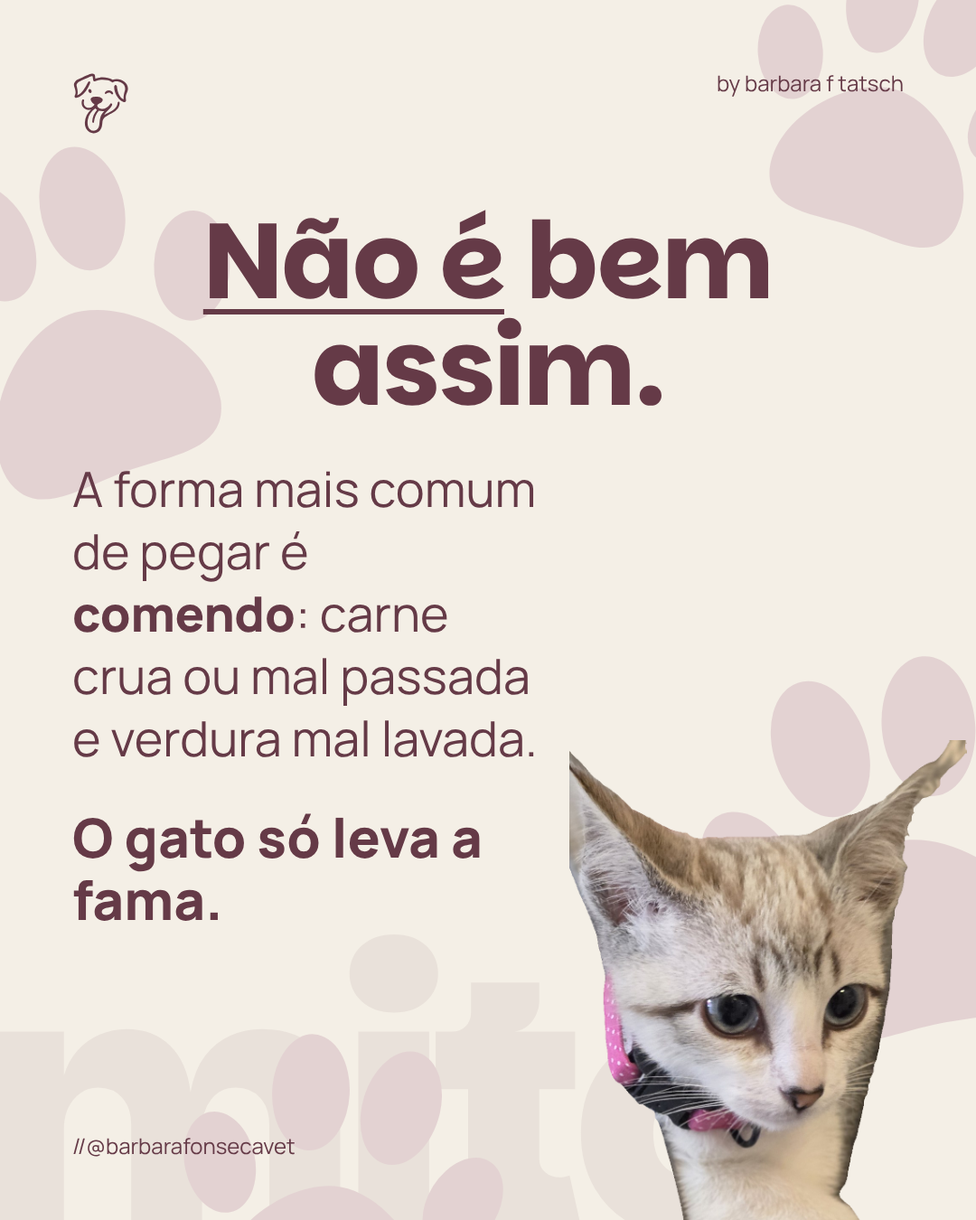
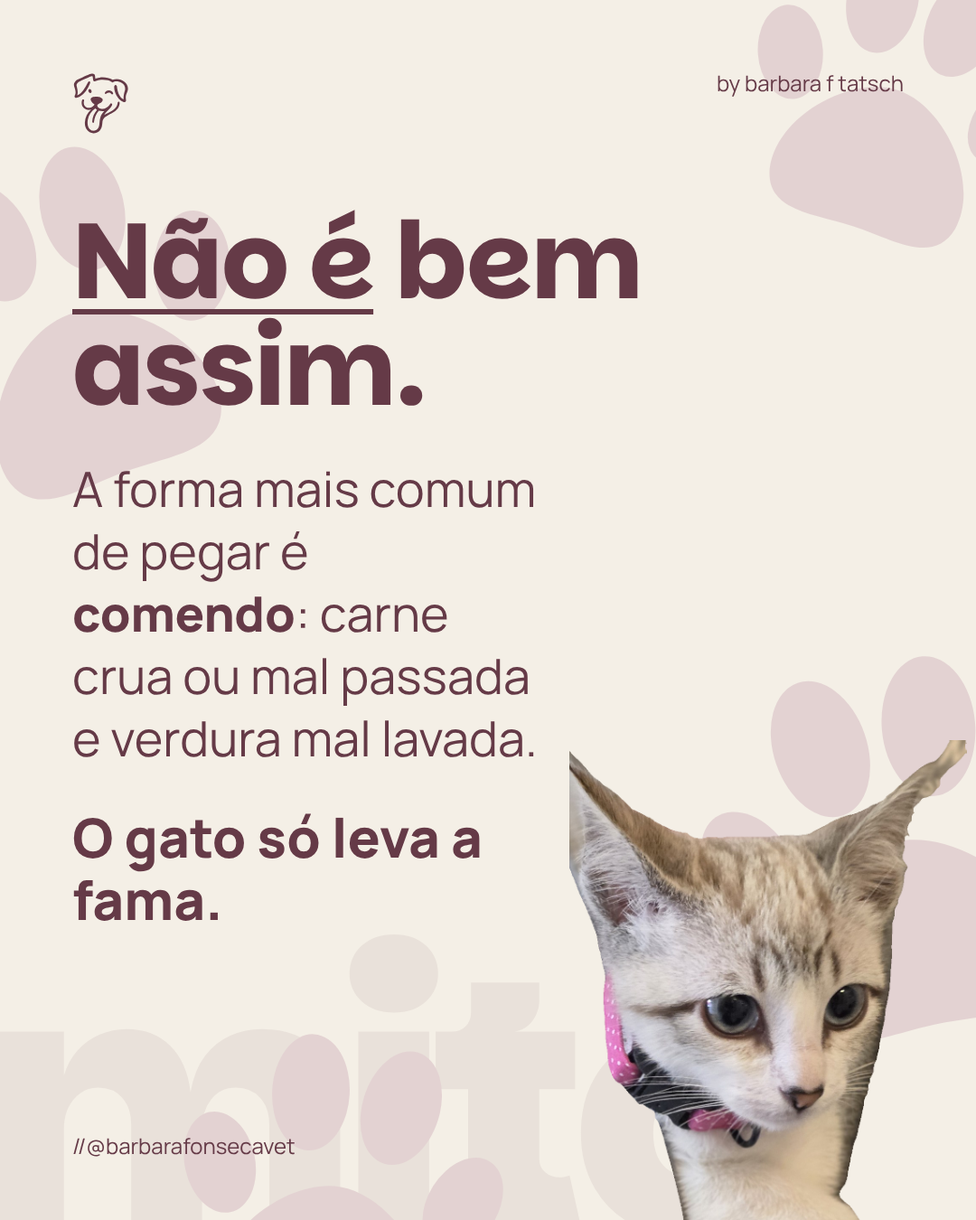
Carrosséis com as fotos do banco novo, capas fortes, quadriculado e azulejo; edições do canvas incorporadas
Claude-Session: https://claude.ai/code/session_012dBNqwcpy8QWcz4DKmFao3

Changed region(s): [[0.0611, 0.1556, 0.7944, 0.3422]]

diff --git a/Barbara/posts/carrosseis-figma/04-prejudiciais.html b/Barbara/posts/carrosseis-figma/04-prejudiciais.html
@@ -1,35 +1,32 @@
 <!doctype html><html lang="pt-BR"><head><meta charset="utf-8"><link rel="stylesheet" href="../../design-system/components/bundle.css"><link rel="stylesheet" href="estilo.css"><title>Esses alimentos podem ser prejudiciais</title></head><body><div class="tira">
 
-<section class="s foto-s"><img class="foto" src="../../design-system/assets/Fotos/tosa-filhote-preto.jpg" alt="Filhote preto comendo de um potinho" style="object-position:50% 40%"><div class="sombra-topo" style="background:linear-gradient(180deg,rgba(40,15,24,.7) 0%,rgba(40,15,24,.35) 40%,rgba(40,15,24,0) 60%)"></div><i class="bf-logo"></i><p class="by">by barbara f tatsch</p><p class="handle">//@barbarafonsecavet</p>
-  <div class="grupo-topo" style="top:250px;align-items:flex-start;text-align:left;left:70px"><span class="etiqueta">[esses alimentos podem ser]</span>
-  <p class="gigante">prejudiciais</p><p class="sub-gigante">para o seu <b>animalzinho</b></p></div></section>
+<section class="s foto-s"><img class="foto" src="../../design-system/assets/Fotos/banco-novo/pug-pirulito-chapeu-meme.webp" alt="Pug de chapéu segurando um pirulito" style="object-position:58% 50%"><div class="sombra-baixo" style="background:linear-gradient(0deg,rgba(40,15,24,.88) 0%,rgba(40,15,24,.55) 38%,rgba(40,15,24,0) 62%)"></div> <i class="bf-logo"></i><p class="by">by barbara f tatsch</p><p class="handle">//@barbarafonsecavet</p>
+  <div class="capa-bloco" style="bottom:130px"><span class="etiqueta">[esses alimentos podem ser]</span><p class="gigante">prejudiciais</p><p class="sub-gigante">para o seu <b>animalzinho</b> 🍭</p></div></section>
 
 <section class="s creme"><i class="pata" style="left:-130px;top:150px;width:420px;height:420px;transform:rotate(-20deg)"></i><i class="pata" style="right:-90px;top:-70px;width:360px;height:360px;transform:rotate(18deg)"></i><i class="pata" style="right:-150px;bottom:170px;width:470px;height:470px;transform:rotate(-12deg)"></i><i class="pata" style="left:180px;bottom:-170px;width:390px;height:390px;transform:rotate(10deg)"></i><p class="fundo-palavra" aria-hidden="true" style="left:-40px;bottom:-40px">cacau</p><i class="bf-logo"></i><p class="by">by barbara f tatsch</p><p class="handle">//@barbarafonsecavet</p>
-  <img class="recorte" src="recorte-shih-tzu.png" alt="" style="right:0;bottom:0;width:430px">
-  <div class="miolo" style="justify-content:flex-start;top:230px"><h2 class="titulo"><u>Chocolate</u></h2>
-  <p class="corpo" style="max-width:540px">Quanto <b>mais amargo, pior</b>. O corpo dele não consegue eliminar uma substância do cacau.</p></div></section>
+  <div class="miolo" style="top:220px;justify-content:flex-start"><h2 class="titulo" style="font-size:150px">🍫<br><u>Chocolate</u></h2>
+  <p class="corpo" style="text-align:center">Quanto <b>mais amargo, pior</b>. O corpo dele não consegue eliminar uma substância do cacau.</p></div></section>
 
-<section class="s vinho"><i class="bf-logo"></i><p class="by">by barbara f tatsch</p><p class="handle">//@barbarafonsecavet</p><p class="fundo-palavra" aria-hidden="true" style="left:-40px;top:600px">uva</p>
-  <h2 class="e5-titulo">Uva e uva&#8209;passa</h2>
-  <img class="recorte" src="recorte-pitbull-cinza.png" alt="" style="right:0;bottom:0;width:400px">
-  <p class="e5-texto">Mesmo <b>pouquinho</b> pode afetar os <b>rins</b> de alguns cães.</p></section>
+<section class="s vinho"><i class="bf-logo"></i><p class="by">by barbara f tatsch</p><p class="handle">//@barbarafonsecavet</p><p class="fundo-palavra" aria-hidden="true" style="left:-40px;top:560px">uva</p>
+  <h2 class="e5-titulo" style="width:900px">Uva e uva&#8209;passa 🍇</h2>
+  <p class="e5-texto" style="width:880px;font-size:56px">Mesmo <b>pouquinho</b> pode afetar os <b>rins</b> de alguns cães.</p></section>
 
-<section class="s foto-s"><img class="foto" src="../../design-system/assets/Fotos/pet-golden.webp" alt="Golden sorrindo"><div class="sombra-baixo"></div><i class="bf-logo"></i><p class="by">by barbara f tatsch</p><p class="handle">//@barbarafonsecavet</p>
-  <div class="grupo-topo"><div class="bf-tarja bf-tarja--salvia"><span><b>Cebola e alho</b></span></div></div>
-  <div class="texto-pe"><p class="texto-foto">Crus, cozidos ou em pó. <u>Inclusive no tempero da comida que sobra.</u></p></div></section>
+<section class="s foto-s"><img class="foto" src="../../design-system/assets/Fotos/banco-novo/salsicha-cozinheiro-meme.webp" alt="Salsicha de avental e touca cozinhando com tomate e cebola" style="object-position:40% 50%"><div class="sombra-topo" style="background:linear-gradient(180deg,rgba(40,15,24,.8) 0%,rgba(40,15,24,.45) 34%,rgba(40,15,24,0) 55%)"></div> <i class="bf-logo"></i><p class="by">by barbara f tatsch</p><p class="handle">//@barbarafonsecavet</p>
+  <div class="grupo-topo"><div class="bf-tarja bf-tarja--salvia"><span><b>Cebola e alho</b> 🧅</span></div>
+  <p class="texto-mini" style="font-size:48px">Crus, cozidos ou em pó. <b>Inclusive no tempero da comida que sobra.</b></p></div></section>
 
-<section class="s foto-s"><img class="foto" src="../../design-system/assets/Fotos/shih-tzu-tapete.jpg" alt="Shih-tzu no tapete olhando pra cima"><div class="sombra-topo" style="background:linear-gradient(180deg,rgba(40,15,24,.7) 0%,rgba(40,15,24,.3) 34%,rgba(40,15,24,0) 50%)"></div><i class="bf-logo"></i><p class="by">by barbara f tatsch</p><p class="handle">//@barbarafonsecavet</p>
-  <div class="grupo-topo"><div class="bf-tarja"><span><b>Xilitol</b></span></div>
-  <p class="texto-mini">O adoçante de chiclete, bala, alguns pães e pasta de amendoim. <b>Lê o rótulo.</b></p></div></section>
+<section class="s xadrez"><i class="bf-logo"></i><p class="by">by barbara f tatsch</p><p class="handle">//@barbarafonsecavet</p>
+  <div class="miolo"><div class="cartaz"><h2 class="titulo">Xilitol</h2>
+  <p class="corpo" style="text-align:center">O adoçante de <b>chiclete, bala</b>, alguns pães e pasta de amendoim.</p></div>
+  <p class="fecho" style="text-align:center;color:#F7F0E4">Lê o rótulo antes de dividir 👀</p></div></section>
 
-<section class="s foto-s"><img class="foto" src="../../design-system/assets/Fotos/gato-frajola-jardim.jpg" alt="Gato frajola no jardim"><div class="sombra-baixo"></div><i class="bf-logo"></i><p class="by">by barbara f tatsch</p><p class="handle">//@barbarafonsecavet</p>
-  <div class="grupo-baixo"><div class="bf-tarja bf-tarja--salvia"><span>Leite pro <b>gato adulto</b></span></div>
-  <p class="texto-mini">Muitos não digerem bem a lactose. O pires de leite é <b>coisa de desenho</b>.</p></div></section>
+<section class="s azulejo"><i class="bf-logo"></i><p class="by">by barbara f tatsch</p><p class="handle">//@barbarafonsecavet</p>
+  <div class="card-foto" style="background-image:url(../../design-system/assets/Fotos/banco-novo/gato-laranja-olhando-pra-cima.png);background-position:50% 30%"><div class="tarja-card"><div class="bf-tarja"><span>Leite pro <b>gato adulto</b> 🥛</span></div></div></div>
+  <div class="bilhete">Muitos não digerem bem a lactose. O pires de leite é <b>coisa de desenho</b>.</div></section>
 
-<section class="s"><img class="fundo-escuro" src="../../design-system/assets/Fotos/dois-gatos.jpg" alt=""><i class="bf-logo"></i><p class="by">by barbara f tatsch</p><p class="handle">//@barbarafonsecavet</p>
-  <h2 class="e7-titulo">Café e álcool</h2>
-  <div class="e7-quadro" role="img" aria-label="Dois gatos" style="background:url(../../design-system/assets/Fotos/dois-gatos.jpg) 50% 30%/150% auto no-repeat"></div>
-  <p class="e7-texto">Nem um golinho. O corpo dele reage <b>bem diferente</b> do nosso.</p></section>
+<section class="s foto-s"><img class="foto" src="../../design-system/assets/Fotos/banco-novo/salsicha-pijama-notebook-meme.webp" alt="Salsicha de pijama na cama com notebook e café" style="object-position:60% 40%"><div class="sombra-baixo" style="background:linear-gradient(0deg,rgba(40,15,24,.88) 0%,rgba(40,15,24,.55) 38%,rgba(40,15,24,0) 62%)"></div> <i class="bf-logo"></i><p class="by">by barbara f tatsch</p><p class="handle">//@barbarafonsecavet</p>
+  <div class="grupo-baixo"><div class="bf-tarja"><span><b>Café e álcool</b> ☕</span></div>
+  <p class="texto-mini" style="font-size:48px">Nem um golinho. O corpo dele reage <b>bem diferente</b> do nosso.</p></div></section>
 
 <section class="s creme"><p class="fundo-palavra" aria-hidden="true" style="left:-60px;bottom:-30px">atenção</p><i class="bf-logo"></i><p class="by">by barbara f tatsch</p><p class="handle">//@barbarafonsecavet</p>
   <p class="e8-texto">Ele comeu algum desses? <b>Não espera passar mal:</b> procura atendimento na hora. Salva esse post 🫶</p></section>

diff --git a/Barbara/posts/carrosseis-figma/05-o-que-seu-pet-diz.html b/Barbara/posts/carrosseis-figma/05-o-que-seu-pet-diz.html
@@ -1,9 +1,8 @@
 <!doctype html><html lang="pt-BR"><head><meta charset="utf-8"><link rel="stylesheet" href="../../design-system/components/bundle.css"><link rel="stylesheet" href="estilo.css"><title>O que seu pet tenta te dizer todos os dias</title></head><body><div class="tira">
 
-<section class="s foto-s"><img class="foto" src="../../design-system/assets/Fotos/filhote-gato-no-casaco.jpg" alt="Gatinho no colo, dentro do casaco" style="object-position:50% 30%"><div class="sombra-baixo" style="background:linear-gradient(0deg,rgba(40,15,24,.85) 0%,rgba(40,15,24,.5) 40%,rgba(40,15,24,0) 62%)"></div><i class="bf-logo"></i><p class="by">by barbara f tatsch</p><p class="handle">//@barbarafonsecavet</p>
-  <div class="grupo-baixo" style="align-items:flex-start;text-align:left;left:70px;bottom:130px">
-  <p class="gigante" style="font-size:118px;line-height:.95">O que seu pet tenta te dizer</p><span class="etiqueta">[todos os dias?]</span>
-  <p class="texto-mini" style="max-width:820px">O jeito que abana o rabo, as orelhas, o olhar, a postura e até o silêncio dizem <b>muito sobre como ele está se sentindo.</b></p></div></section>
+<section class="s foto-s"><img class="foto" src="../../design-system/assets/Fotos/banco-novo/salsicha-fantasia-flor.webp" alt="Salsicha fantasiado de flor laranja olhando pra cima"><div class="sombra-baixo" style="background:linear-gradient(0deg,rgba(40,15,24,.88) 0%,rgba(40,15,24,.55) 38%,rgba(40,15,24,0) 62%)"></div><div class="sombra-topo" style="background:linear-gradient(180deg,rgba(40,15,24,.8) 0%,rgba(40,15,24,.45) 34%,rgba(40,15,24,0) 55%)"></div> <i class="bf-logo"></i><p class="by">by barbara f tatsch</p><p class="handle">//@barbarafonsecavet</p>
+  <div class="capa-bloco" style="top:170px"><p class="gigante" style="font-size:126px;line-height:.92">O que seu pet tenta te dizer</p><span class="etiqueta">[todos os dias?]</span></div>
+  <div class="texto-pe" style="bottom:120px"><p class="texto-mini" style="font-size:40px">O rabo, as orelhas, o olhar, a postura e até o silêncio dizem <b>muito sobre como ele está se sentindo.</b></p></div></section>
 
 <section class="s creme"><i class="pata" style="left:-130px;top:150px;width:420px;height:420px;transform:rotate(-20deg)"></i><i class="pata" style="right:-90px;top:-70px;width:360px;height:360px;transform:rotate(18deg)"></i><i class="pata" style="right:-150px;bottom:170px;width:470px;height:470px;transform:rotate(-12deg)"></i><i class="pata" style="left:180px;bottom:-170px;width:390px;height:390px;transform:rotate(10deg)"></i><p class="fundo-palavra" aria-hidden="true" style="left:-40px;bottom:-40px">confio</p><i class="bf-logo"></i><p class="by">by barbara f tatsch</p><p class="handle">//@barbarafonsecavet</p>
   <img class="recorte" src="recorte-gata-escaminha.png" alt="" style="right:40px;bottom:0;width:360px">
@@ -11,25 +10,24 @@
   <p class="corpo" style="max-width:560px">Gato que te olha e pisca devagar tá dizendo que <b>confia em você</b>. Pisca de volta 🥰</p></div></section>
 
 <section class="s vinho"><i class="bf-logo"></i><p class="by">by barbara f tatsch</p><p class="handle">//@barbarafonsecavet</p><p class="fundo-palavra" aria-hidden="true" style="left:-40px;top:620px">rabo</p>
-  <h2 class="e5-titulo">Rabo abanando nem sempre é festa</h2>
-  <img class="recorte" src="recorte-dalmata.png" alt="" style="right:30px;bottom:0;width:300px">
-  <p class="e5-texto">Duro, curtinho e com o corpo tenso pode ser <b>alerta</b>. Olha o corpo todo.</p></section>
+  <h2 class="e5-titulo" style="width:900px">Rabo abanando nem sempre é festa</h2>
+  <p class="e5-texto" style="width:880px;font-size:54px">Duro, curtinho e com o corpo tenso pode ser <b>alerta</b>. Olha o corpo todo.</p></section>
 
-<section class="s foto-s"><img class="foto" src="../../design-system/assets/Fotos/pet-caminhando.webp" alt="Gato frajola"><div class="sombra-baixo"></div><i class="bf-logo"></i><p class="by">by barbara f tatsch</p><p class="handle">//@barbarafonsecavet</p>
-  <div class="grupo-topo"><div class="bf-tarja bf-tarja--salvia"><span><b>Barriga pra cima</b></span></div></div>
-  <div class="texto-pe"><p class="texto-foto">No gato, nem sempre é convite pra carinho. <u>Às vezes é só confiança.</u></p></div></section>
+<section class="s azulejo azulejo--salvia"><i class="bf-logo"></i><p class="by">by barbara f tatsch</p><p class="handle">//@barbarafonsecavet</p>
+  <div class="card-foto" style="background-image:url(../../design-system/assets/Fotos/banco-novo/dois-goldens-deitados.png);background-position:50% 55%"><div class="tarja-card"><div class="bf-tarja"><span><b>Barriga pra cima</b>,</span></div></div></div>
+  <div class="bilhete">ou esparramado assim: nem sempre é convite pra carinho. <b>Às vezes é só confiança.</b></div></section>
 
-<section class="s foto-s"><img class="foto" src="../../design-system/assets/Fotos/dalmata-mesa.jpg" alt="Dálmata na mesa"><div class="sombra-baixo"></div><i class="bf-logo"></i><p class="by">by barbara f tatsch</p><p class="handle">//@barbarafonsecavet</p>
-  <div class="grupo-baixo"><div class="bf-tarja"><span>Bocejo e</span><span><b>lambida no focinho</b></span></div>
-  <p class="texto-mini">Fora de hora, podem ser sinal de que ele tá <b>desconfortável</b>.</p></div></section>
+<section class="s foto-s"><img class="foto" src="../../design-system/assets/Fotos/banco-novo/corgi-dirigindo-meme.webp" alt="Corgi no volante de boca aberta" style="object-position:35% 50%"><div class="sombra-topo" style="background:linear-gradient(180deg,rgba(40,15,24,.8) 0%,rgba(40,15,24,.45) 34%,rgba(40,15,24,0) 55%)"></div> <i class="bf-logo"></i><p class="by">by barbara f tatsch</p><p class="handle">//@barbarafonsecavet</p>
+  <div class="grupo-topo"><div class="bf-tarja"><span>Bocejo e</span><span><b>lambida no focinho</b></span></div>
+  <p class="texto-mini" style="font-size:46px">Fora de hora, podem ser sinal de que ele tá <b>desconfortável</b>.</p></div></section>
 
-<section class="s foto-s"><img class="foto" src="../../design-system/assets/Fotos/buldogue-e-pequines.jpg" alt="Buldogue e pequinês deitados"><div class="sombra-topo" style="background:linear-gradient(180deg,rgba(40,15,24,.7) 0%,rgba(40,15,24,.3) 34%,rgba(40,15,24,0) 50%)"></div><i class="bf-logo"></i><p class="by">by barbara f tatsch</p><p class="handle">//@barbarafonsecavet</p>
-  <div class="grupo-topo"><div class="bf-tarja bf-tarja--salvia"><span>O <b>silêncio</b> também fala</span></div>
-  <p class="texto-mini">Bicho que se esconde, fica quieto ou para de comer <b>pode estar com dor</b>.</p></div></section>
+<section class="s xadrez--salvia"><i class="bf-logo"></i><p class="by">by barbara f tatsch</p><p class="handle">//@barbarafonsecavet</p>
+  <div class="miolo"><div class="cartaz"><h2 class="titulo">O silêncio também fala</h2>
+  <p class="corpo" style="text-align:center">Bicho que se esconde, fica quieto ou para de comer <b>pode estar com dor</b>.</p></div></div></section>
 
-<section class="s"><img class="fundo-escuro" src="../../design-system/assets/Fotos/barbara-consultorio.jpg" alt=""><i class="bf-logo"></i><p class="by">by barbara f tatsch</p><p class="handle">//@barbarafonsecavet</p>
+<section class="s"><img class="fundo-escuro" src="../../design-system/assets/Fotos/barbara-jaleco-preto.jpg" alt=""><i class="bf-logo"></i><p class="by">by barbara f tatsch</p><p class="handle">//@barbarafonsecavet</p>
   <h2 class="e7-titulo">Na dúvida,</h2>
-  <div class="e7-quadro" role="img" aria-label="Barbara no consultório" style="background:url(../../design-system/assets/Fotos/barbara-consultorio.jpg) 50% 50%/135% auto no-repeat"></div>
+  <div class="e7-quadro" role="img" aria-label="Barbara" style="background:url(../../design-system/assets/Fotos/barbara-jaleco-preto.jpg) 50% 22%/120% auto no-repeat"></div>
   <p class="e7-texto">me chama. Eu te ajudo a <b>entender o que ele tá dizendo</b> 💗</p></section>
 
 <section class="s creme"><p class="fundo-palavra" aria-hidden="true" style="left:-60px;bottom:-30px">me conta</p><i class="bf-logo"></i><p class="by">by barbara f tatsch</p><p class="handle">//@barbarafonsecavet</p>

diff --git a/Barbara/posts/carrosseis-figma/02-um-conselho.html b/Barbara/posts/carrosseis-figma/02-um-conselho.html
@@ -1,29 +1,28 @@
 <!doctype html><html lang="pt-BR"><head><meta charset="utf-8"><link rel="stylesheet" href="../../design-system/components/bundle.css"><link rel="stylesheet" href="estilo.css"><title>Se eu pudesse dar só um conselho</title></head><body><div class="tira">
 
-<section class="s foto-s"><img class="foto" src="../../design-system/assets/Fotos/barbara-retrato.jpg" alt="Barbara" style="object-position:50% 30%"><div class="sombra-topo"></div><i class="bf-logo"></i><p class="by">by barbara f tatsch</p><p class="handle">//@barbarafonsecavet</p>
-  <div class="grupo-baixo"><div class="bf-tarja"><span>Se eu pudesse dar</span><span><b>só um conselho</b></span></div><span class="etiqueta">[pra todo tutor...]</span></div></section>
+<section class="s foto-s"><img class="foto" src="../../design-system/assets/Fotos/banco-novo/golden-girassois.webp" alt="Golden segurando girassóis na boca" style="object-position:50% 40%"><div class="sombra-baixo" style="background:linear-gradient(0deg,rgba(40,15,24,.88) 0%,rgba(40,15,24,.55) 38%,rgba(40,15,24,0) 62%)"></div> <i class="bf-logo"></i><p class="by">by barbara f tatsch</p><p class="handle">//@barbarafonsecavet</p>
+  <div class="capa-bloco" style="bottom:130px"><p class="sub-gigante" style="font-size:64px">Se eu pudesse dar</p><p class="gigante" style="font-size:150px">só um conselho</p><span class="etiqueta">[pra todo tutor...]</span></div></section>
 
-<section class="s creme"><p class="fundo-palavra" aria-hidden="true" style="left:-30px;bottom:-40px">ótimo</p><i class="pata" style="left:-130px;top:150px;width:420px;height:420px;transform:rotate(-20deg)"></i><i class="pata" style="right:-90px;top:-70px;width:360px;height:360px;transform:rotate(18deg)"></i><i class="pata" style="right:-150px;bottom:170px;width:470px;height:470px;transform:rotate(-12deg)"></i><i class="pata" style="left:180px;bottom:-170px;width:390px;height:390px;transform:rotate(10deg)"></i> <i class="bf-logo"></i><p class="by">by barbara f tatsch</p><p class="handle">//@barbarafonsecavet</p>
-  <img class="recorte" src="recorte-pitbull-cinza.png" alt="" style="right:0;bottom:0;width:430px">
+<section class="s creme"><i class="pata" style="left:-130px;top:150px;width:420px;height:420px;transform:rotate(-20deg)"></i><i class="pata" style="right:-90px;top:-70px;width:360px;height:360px;transform:rotate(18deg)"></i><i class="pata" style="right:-150px;bottom:170px;width:470px;height:470px;transform:rotate(-12deg)"></i><i class="pata" style="left:180px;bottom:-170px;width:390px;height:390px;transform:rotate(10deg)"></i><p class="fundo-palavra" aria-hidden="true" style="left:-30px;bottom:-40px">ótimo</p><i class="bf-logo"></i><p class="by">by barbara f tatsch</p><p class="handle">//@barbarafonsecavet</p>
+  <div class="polaroid" style="right:60px;bottom:170px;width:400px;height:440px;transform:rotate(5deg)"><div style="background-image:url(../../design-system/assets/Fotos/banco-novo/cachorro-flor-arco-iris.webp);background-position:50% 35%;height:390px"></div><span>parece ótimo, né?</span></div>
   <div class="miolo" style="justify-content:flex-start;top:230px"><h2 class="titulo">Leva ele no <u>check&#8209;up</u></h2>
   <p class="corpo" style="max-width:520px"><b>mesmo com ele ótimo.</b> Uma vez por ano, pelo menos.</p></div></section>
 
-<section class="s foto-s"><img class="foto" src="../../design-system/assets/Fotos/pet-golden.webp" alt="Golden sorrindo"><div class="sombra-baixo"></div><i class="bf-logo"></i><p class="by">by barbara f tatsch</p><p class="handle">//@barbarafonsecavet</p>
-  <div class="grupo-topo"><div class="bf-tarja bf-tarja--salvia"><span>Bicho <b>esconde dor</b></span><span><b>muito bem</b></span></div></div>
-  <div class="texto-pe"><p class="texto-foto">Gato, então, é campeão nisso. <u>Por fora, ele parece ótimo.</u></p></div></section>
+<section class="s foto-s"><img class="foto" src="../../design-system/assets/Fotos/banco-novo/filhote-terno-joinha-meme.png" alt="Filhote de terno fazendo joinha" style="object-position:50% 40%"><div class="sombra-baixo" style="background:linear-gradient(0deg,rgba(40,15,24,.88) 0%,rgba(40,15,24,.55) 38%,rgba(40,15,24,0) 62%)"></div> <i class="bf-logo"></i><p class="by">by barbara f tatsch</p><p class="handle">//@barbarafonsecavet</p>
+  <div class="grupo-topo"><div class="bf-tarja bf-tarja--salvia"><span>"Tô ótimo" 👍</span></div></div>
+  <div class="texto-pe"><p class="texto-foto">Animalzinho <b>esconde dor muito bem</b>. Gato, então, é campeão nisso. <u>Por fora, parece tudo certo.</u></p></div></section>
 
-<section class="s vinho"><p class="fundo-palavra" aria-hidden="true" style="left:-30px;top:560px">rim</p><i class="bf-logo"></i><p class="by">by barbara f tatsch</p><p class="handle">//@barbarafonsecavet</p>
-  <h2 class="e5-titulo">O exame enxerga antes.</h2>
-  <img class="recorte" src="recorte-dalmata.png" alt="" style="right:40px;bottom:0;width:330px">
-  <p class="e5-texto">O exame de sangue mostra o <b>rim mudando antes de qualquer sinal</b>.</p></section>
+<section class="s vinho"><i class="bf-logo"></i><p class="by">by barbara f tatsch</p><p class="handle">//@barbarafonsecavet</p><p class="fundo-palavra" aria-hidden="true" style="left:-30px;top:560px">rim</p>
+  <h2 class="e5-titulo" style="width:900px">O exame enxerga antes.</h2>
+  <p class="e5-texto" style="width:880px;font-size:56px">O exame de sangue mostra o <b>rim mudando antes de qualquer sinal</b>.</p></section>
 
-<section class="s foto-s"><img class="foto" src="../../design-system/assets/Fotos/buldogue-e-pequines.jpg" alt="Buldogue e pequinês deitados"><div class="sombra-baixo"></div><i class="bf-logo"></i><p class="by">by barbara f tatsch</p><p class="handle">//@barbarafonsecavet</p>
+<section class="s foto-s"><img class="foto" src="../../design-system/assets/Fotos/banco-novo/salsicha-smoking-rosa-meme.webp" alt="Salsicha de focinho grisalho de smoking segurando uma rosa" style="object-position:40% 30%"><div class="sombra-baixo" style="background:linear-gradient(0deg,rgba(40,15,24,.88) 0%,rgba(40,15,24,.55) 38%,rgba(40,15,24,0) 62%)"></div> <i class="bf-logo"></i><p class="by">by barbara f tatsch</p><p class="handle">//@barbarafonsecavet</p>
   <div class="grupo-baixo"><div class="bf-tarja bf-tarja--salvia"><span>Idoso vai <b>mais vezes</b></span></div>
-  <p class="texto-mini">Quanto mais velhinho, <b>mais perto</b> a gente acompanha.</p></div></section>
+  <p class="texto-mini" style="font-size:48px">Quanto mais velhinho, <b>mais perto</b> a gente acompanha. Ele merece 🌹</p></div></section>
 
-<section class="s"><img class="fundo-escuro" src="../../design-system/assets/Fotos/barbara-consultorio.jpg" alt=""><i class="bf-logo"></i><p class="by">by barbara f tatsch</p><p class="handle">//@barbarafonsecavet</p>
-  <h2 class="e7-titulo">Meu objetivo</h2>
-  <img class="e7-quadro" src="../../design-system/assets/Fotos/barbara-consultorio.jpg" alt="Barbara no consultório" style="object-position:50% 52%">
+<section class="s"><img class="fundo-escuro" src="../../design-system/assets/Fotos/barbara-retrato.jpg" alt=""><i class="bf-logo"></i><p class="by">by barbara f tatsch</p><p class="handle">//@barbarafonsecavet</p>
+  <h2 class="e7-titulo" style="top:245px">Meu objetivo</h2>
+  <div class="e7-quadro" role="img" aria-label="Barbara" style="background:url(../../design-system/assets/Fotos/barbara-retrato.jpg) 50% 25%/120% auto no-repeat"></div>
   <p class="e7-texto">é que você <b>não precise de mim</b>. E isso começa com ele bem 💗</p></section>
 
 <section class="s creme"><p class="fundo-palavra" aria-hidden="true" style="left:-60px;bottom:-30px">check-up</p><i class="bf-logo"></i><p class="by">by barbara f tatsch</p><p class="handle">//@barbarafonsecavet</p>

diff --git a/Barbara/posts/carrosseis-figma/03-na-hora-da-vacina.html b/Barbara/posts/carrosseis-figma/03-na-hora-da-vacina.html
@@ -1,27 +1,27 @@
 <!doctype html><html lang="pt-BR"><head><meta charset="utf-8"><link rel="stylesheet" href="../../design-system/components/bundle.css"><link rel="stylesheet" href="estilo.css"><title>O que ele tenta te dizer na hora da vacina</title></head><body><div class="tira">
 
-<section class="s foto-s"><img class="foto" src="../../design-system/assets/Fotos/pitbull-cinza-mesa.jpg" alt="Filhote cinza na mesa do consultório" style="object-position:50% 30%"><div class="sombra-topo"></div><i class="bf-logo"></i><p class="by">by barbara f tatsch</p><p class="handle">//@barbarafonsecavet</p>
-  <div class="grupo-baixo"><div class="bf-tarja bf-tarja--salvia"><span>O que <b>ele</b> tenta</span><span><b>te dizer</b></span></div><span class="etiqueta">[na hora da vacina?]</span></div></section>
+<section class="s foto-s" style="background:#fff"><img class="foto" src="../../design-system/assets/Fotos/banco-novo/filhote-cocker-no-colo-jaleco-verde.png" alt="Filhote de cocker no colo, olhando pra câmera" style="object-position:60% 100%"><i class="bf-logo" style="color:#653A47"></i><p class="by" style="color:#653A47;text-shadow:none">by barbara f tatsch</p><p class="handle">//@barbarafonsecavet</p>
+  <div class="capa-bloco" style="top:180px"><p class="gigante gigante--escuro" style="font-size:128px;line-height:.92">O que ele tenta te dizer</p><span class="etiqueta">[na hora da vacina?]</span></div></section>
 
-<section class="s foto-s"><img class="foto" src="../../design-system/assets/Fotos/filhote-gato-no-casaco.jpg" alt="Gatinho de olhos arregalados" style="object-position:50% 20%"><div class="sombra-topo" style="background:linear-gradient(180deg,rgba(40,15,24,.6) 0%,rgba(40,15,24,.25) 30%,rgba(40,15,24,0) 45%)"></div><i class="bf-logo"></i><p class="by">by barbara f tatsch</p><p class="handle">//@barbarafonsecavet</p>
-  <div class="grupo-topo"><div class="bf-tarja"><span>Orelha <b>pra trás</b>,</span></div>
-  <p class="texto-mini">olho arregalado, corpinho encolhido, rabo escondido. <b>Isso é medo.</b></p></div></section>
+<section class="s foto-s"><img class="foto" src="../../design-system/assets/Fotos/banco-novo/gato-branco-sobrancelha-meme.webp" alt="Gato branco de olhos arregalados" style="object-position:50% 40%"><div class="sombra-baixo" style="background:linear-gradient(0deg,rgba(40,15,24,.88) 0%,rgba(40,15,24,.55) 38%,rgba(40,15,24,0) 62%)"></div> <i class="bf-logo"></i><p class="by">by barbara f tatsch</p><p class="handle">//@barbarafonsecavet</p>
+  <div class="grupo-baixo"><div class="bf-tarja"><span>Orelha <b>pra trás</b>,</span><span><b>olho arregalado</b></span></div>
+  <p class="texto-mini" style="font-size:46px">corpinho encolhido, rabo escondido. <b>Isso é medo.</b></p></div></section>
 
-<section class="s creme"><p class="fundo-palavra" aria-hidden="true" style="left:-30px;bottom:-40px">medo</p><i class="pata" style="left:-130px;top:150px;width:420px;height:420px;transform:rotate(-20deg)"></i><i class="pata" style="right:-90px;top:-70px;width:360px;height:360px;transform:rotate(18deg)"></i><i class="pata" style="right:-150px;bottom:170px;width:470px;height:470px;transform:rotate(-12deg)"></i><i class="pata" style="left:180px;bottom:-170px;width:390px;height:390px;transform:rotate(10deg)"></i> <i class="bf-logo"></i><p class="by">by barbara f tatsch</p><p class="handle">//@barbarafonsecavet</p>
+<section class="s creme"><i class="pata" style="left:-130px;top:150px;width:420px;height:420px;transform:rotate(-20deg)"></i><i class="pata" style="right:-90px;top:-70px;width:360px;height:360px;transform:rotate(18deg)"></i><i class="pata" style="right:-150px;bottom:170px;width:470px;height:470px;transform:rotate(-12deg)"></i><i class="pata" style="left:180px;bottom:-170px;width:390px;height:390px;transform:rotate(10deg)"></i><p class="fundo-palavra" aria-hidden="true" style="left:-30px;bottom:-40px">medo</p><i class="bf-logo"></i><p class="by">by barbara f tatsch</p><p class="handle">//@barbarafonsecavet</p>
   <img class="recorte" src="recorte-shih-tzu.png" alt="" style="right:0;bottom:0;width:440px">
   <div class="miolo" style="justify-content:flex-start;top:230px"><h2 class="titulo">Medo <u>não é manha</u>.</h2>
-  <p class="corpo" style="max-width:520px">Ele não tá sendo chato. Ele tá <b>tentando se proteger</b>.</p></div></section>
+  <p class="corpo" style="max-width:520px;text-align:center">Ele não tá sendo chato. Ele tá <b>tentando se proteger</b>.</p></div></section>
 
-<section class="s vinho"><p class="fundo-palavra" aria-hidden="true" style="left:-40px;top:600px">calma</p><i class="bf-logo"></i><p class="by">by barbara f tatsch</p><p class="handle">//@barbarafonsecavet</p>
+<section class="s vinho"><i class="bf-logo"></i><p class="by">by barbara f tatsch</p><p class="handle">//@barbarafonsecavet</p><p class="fundo-palavra" aria-hidden="true" style="left:-40px;top:600px">calma</p>
   <h2 class="e5-titulo">Por isso, na minha consulta:</h2>
   <img class="recorte" src="recorte-pitbull-marrom.png" alt="" style="right:0;bottom:0;width:440px">
   <p class="e5-texto"><b>luz baixa</b>, <b>música</b> e <b>petisco</b> na mão.</p></section>
 
-<section class="s foto-s"><img class="foto" src="../../design-system/assets/Fotos/tosa-filhote-preto.jpg" alt="Filhote preto comendo petisco no potinho"><div class="sombra-baixo"></div><i class="bf-logo"></i><p class="by">by barbara f tatsch</p><p class="handle">//@barbarafonsecavet</p>
-  <div class="grupo-baixo"><div class="bf-tarja bf-tarja--salvia"><span>O <b>petisco</b> é meu <b>aliado</b></span></div>
-  <p class="texto-mini">Enquanto ele come, eu aplico. E a vacina passa <b>bem mais tranquila</b>.</p></div></section>
+<section class="s xadrez"><i class="bf-logo"></i><p class="by">by barbara f tatsch</p><p class="handle">//@barbarafonsecavet</p>
+  <div class="miolo"><div class="cartaz"><h2 class="titulo">O <u>petisco</u> é meu aliado 🦴</h2>
+  <p class="corpo" style="text-align:center">Enquanto ele come, eu aplico. E a vacina passa <b>bem mais tranquila</b>.</p></div></div></section>
 
-<section class="s foto-s"><img class="foto" src="../../design-system/assets/Fotos/dalmata-mesa.jpg" alt="Dálmata posando na mesa"><div class="sombra-baixo"></div><i class="bf-logo"></i><p class="by">by barbara f tatsch</p><p class="handle">//@barbarafonsecavet</p>
+<section class="s foto-s"><img class="foto" src="../../design-system/assets/Fotos/banco-novo/gatinho-cavaleiro-ia.webp" alt="Ilustração de gatinho de armadura segurando uma espada" style="object-position:50% 45%"><div class="sombra-baixo" style="background:linear-gradient(0deg,rgba(40,15,24,.88) 0%,rgba(40,15,24,.55) 38%,rgba(40,15,24,0) 62%)"></div><div class="sombra-topo" style="background:linear-gradient(180deg,rgba(40,15,24,.8) 0%,rgba(40,15,24,.45) 34%,rgba(40,15,24,0) 55%)"></div> <i class="bf-logo"></i><p class="by">by barbara f tatsch</p><p class="handle">//@barbarafonsecavet</p>
   <div class="grupo-topo"><div class="bf-tarja bf-tarja--salvia"><span>E no fim, <b>certificado</b></span><span><b>de coragem</b> 🏅</span></div></div>
   <div class="texto-pe"><p class="texto-foto">Todo paciente meu ganha um. <u>Quem segurou firme na hora também merece.</u></p></div></section>
 

diff --git a/Barbara/posts/carrosseis-figma/estilo.css b/Barbara/posts/carrosseis-figma/estilo.css
@@ -71,3 +71,22 @@ body{margin:0;background:#ccc}
 /* mural de fotos (post de engajamento) */
 .polaroid{position:absolute;z-index:2;background:#F7F0E4;padding:16px 16px 56px;box-shadow:0 18px 40px rgba(30,10,16,.3)}
 .polaroid div{width:100%;height:100%;background-size:cover;background-position:center}
+
+/* ===== Capa forte, quadriculado e card sobre azulejo ===== */
+.gigante--escuro{color:#653A47;text-shadow:none}
+.sub-gigante--escuro{color:#3B1E28;text-shadow:none}
+.capa-bloco{position:absolute;z-index:3;left:70px;right:70px;display:flex;flex-direction:column;align-items:flex-start;gap:14px}
+.xadrez{background-color:#653A47;background-image:conic-gradient(#57303C 25%,transparent 0 50%,#57303C 0 75%,transparent 0);background-size:180px 180px;color:#F7F0E4}
+.xadrez--salvia{background-color:#A0AD90;background-image:conic-gradient(#96A486 25%,transparent 0 50%,#96A486 0 75%,transparent 0);background-size:180px 180px;color:#3B1E28}
+.xadrez .miolo,.xadrez--salvia .miolo{text-align:center;align-items:center}
+.cartaz{background:#F7F0E4;color:#3B1E28;padding:60px 56px;box-shadow:0 18px 40px rgba(30,10,16,.35);transform:rotate(-1.5deg);text-align:center}
+.cartaz .titulo{color:#653A47}
+.azulejo{background-color:#D9C2C6;background-image:linear-gradient(90deg,rgba(247,240,228,.85) 7px,transparent 7px),linear-gradient(0deg,rgba(247,240,228,.85) 7px,transparent 7px);background-size:180px 180px;background-position:-60px -40px}
+.azulejo--salvia{background-color:#A0AD90}
+.card-foto{position:absolute;z-index:2;left:110px;top:150px;width:860px;height:820px;border-radius:44px;overflow:hidden;box-shadow:0 24px 50px rgba(30,10,16,.35);background-size:cover;background-position:center}
+.card-foto .tarja-card{position:absolute;left:0;right:0;bottom:40px;display:flex;justify-content:center}
+.bilhete{position:absolute;z-index:3;left:90px;top:1000px;width:840px;min-height:230px;box-sizing:border-box;padding:46px 60px 40px 90px;background:#F7F0E4;background-image:repeating-linear-gradient(180deg,transparent 0 58px,rgba(59,30,40,.12) 58px 60px);transform:rotate(-1deg);clip-path:polygon(0 0,100% 0,100% 100%,0 100%,22px 94%,0 88%,22px 82%,0 76%,22px 70%,0 64%,22px 58%,0 52%,22px 46%,0 40%,22px 34%,0 28%,22px 22%,0 16%,22px 10%,0 4%);text-align:center;font:400 46px/1.25 Manrope,sans-serif;color:#3B1E28}
+.bilhete b{font-weight:800}
+.polaroid span{display:block;margin-top:12px;text-align:center;font:700 26px/1.1 Manrope,sans-serif;color:#653A47}
+
+.s:has(.fundo-escuro) .bf-logo,.s:has(.fundo-escuro) .by,.s:has(.fundo-escuro) .handle{color:#F7F0E4}

diff --git a/Barbara/posts/carrosseis-figma/01-toxoplasmose.html b/Barbara/posts/carrosseis-figma/01-toxoplasmose.html
@@ -1,11 +1,11 @@
 <!doctype html><html lang="pt-BR"><head><meta charset="utf-8"><link rel="stylesheet" href="../../design-system/components/bundle.css"><link rel="stylesheet" href="estilo.css"><title>Toxoplasmose é doença do gato?</title></head><body><div class="tira">
 
-<section class="s foto-s"><img class="foto" src="../../design-system/assets/Fotos/dois-gatos.jpg" alt="Dois gatos encostando o focinho"><div class="sombra-topo"></div><i class="bf-logo"></i><p class="by">by barbara f tatsch</p><p class="handle">//@barbarafonsecavet</p>
-  <div class="grupo-baixo"><div class="bf-tarja"><span>Toxoplasmose é</span><span><b>doença do gato?</b> 🐈</span></div></div></section>
+<section class="s foto-s"><img class="foto" src="../../design-system/assets/Fotos/dois-gatos.jpg" alt="Dois gatos encostando o focinho" style="object-position:50% 30%"><div class="sombra-baixo" style="background:linear-gradient(0deg,rgba(40,15,24,.88) 0%,rgba(40,15,24,.55) 38%,rgba(40,15,24,0) 62%)"></div><i class="bf-logo"></i><p class="by">by barbara f tatsch</p><p class="handle">//@barbarafonsecavet</p>
+  <div class="capa-bloco" style="bottom:130px"><span class="etiqueta">[mito ou verdade?]</span><p class="gigante" style="font-size:138px">Toxoplasmose</p><p class="sub-gigante">é <b>doença do gato?</b> 🐈</p></div></section>
 
 <section class="s creme"><p class="fundo-palavra" aria-hidden="true" style="left:-30px;bottom:-40px">mito</p><i class="pata" style="left:-130px;top:150px;width:420px;height:420px;transform:rotate(-20deg)"></i><i class="pata" style="right:-90px;top:-70px;width:360px;height:360px;transform:rotate(18deg)"></i><i class="pata" style="right:-150px;bottom:170px;width:470px;height:470px;transform:rotate(-12deg)"></i><i class="pata" style="left:180px;bottom:-170px;width:390px;height:390px;transform:rotate(10deg)"></i> <i class="bf-logo"></i><p class="by">by barbara f tatsch</p><p class="handle">//@barbarafonsecavet</p>
   <img class="recorte" src="recorte-filhote-gato.png" alt="" style="right:10px;bottom:0;width:440px">
-  <div class="miolo" style="justify-content:flex-start;top:230px"><h2 class="titulo"><u>Não é</u> bem assim.</h2>
+  <div class="miolo" style="justify-content:flex-start;top:230px"><h2 class="titulo" style="text-align:start"><u>Não é</u> bem assim.</h2>
   <p class="corpo" style="max-width:520px">A forma mais comum de pegar é <b>comendo</b>: carne crua ou mal passada e verdura mal lavada.</p>
   <p class="fecho" style="max-width:520px">O gato só leva a fama.</p></div></section>
 

diff --git a/Barbara/posts/carrosseis-figma/06-comenta-com-foto.html b/Barbara/posts/carrosseis-figma/06-comenta-com-foto.html
@@ -3,9 +3,9 @@
   <div style="position:absolute;z-index:3;left:70px;right:70px;top:170px;display:flex;flex-direction:column;align-items:center;gap:18px;text-align:center">
     <h1 class="titulo" style="font-size:112px">Quero <u>conhecer</u> o seu 👀</h1>
     <span class="etiqueta">[comenta com a foto dele]</span></div>
-  <div class="polaroid" style="left:60px;top:560px;width:300px;height:340px;transform:rotate(-6deg)"><div style="background-image:url(../../design-system/assets/Fotos/pet-golden.webp)"></div></div>
-  <div class="polaroid" style="left:390px;top:520px;width:300px;height:340px;transform:rotate(3deg)"><div style="background-image:url(../../design-system/assets/Fotos/gato-frajola-jardim.jpg)"></div></div>
-  <div class="polaroid" style="left:720px;top:575px;width:300px;height:340px;transform:rotate(-2deg)"><div style="background-image:url(../../design-system/assets/Fotos/spitz-colar-elizabetano.jpg)"></div></div>
+  <div class="polaroid" style="left:60px;top:560px;width:300px;height:340px;transform:rotate(-6deg)"><div style="background-image:url(../../design-system/assets/Fotos/banco-novo/salsicha-dinheiro-meme.webp);background-position:80% 40%"></div></div>
+  <div class="polaroid" style="left:390px;top:520px;width:300px;height:340px;transform:rotate(3deg)"><div style="background-image:url(../../design-system/assets/Fotos/banco-novo/cachorro-capacete-melancia-meme.webp);background-position:50% 60%"></div></div>
+  <div class="polaroid" style="left:720px;top:575px;width:300px;height:340px;transform:rotate(-2deg)"><div style="background-image:url(../../design-system/assets/Fotos/banco-novo/salsicha-cartao-na-boca-meme.webp);background-size:230%;background-position:72% 30%"></div></div>
   <p style="position:absolute;z-index:3;left:80px;right:80px;bottom:150px;margin:0;text-align:center;font:400 52px/1.25 Manrope,sans-serif;color:#653A47">Ou você com ele. <b style="font-weight:800">Eu vou amar ver</b> 💗</p>
 </section>
 </div></body></html>
